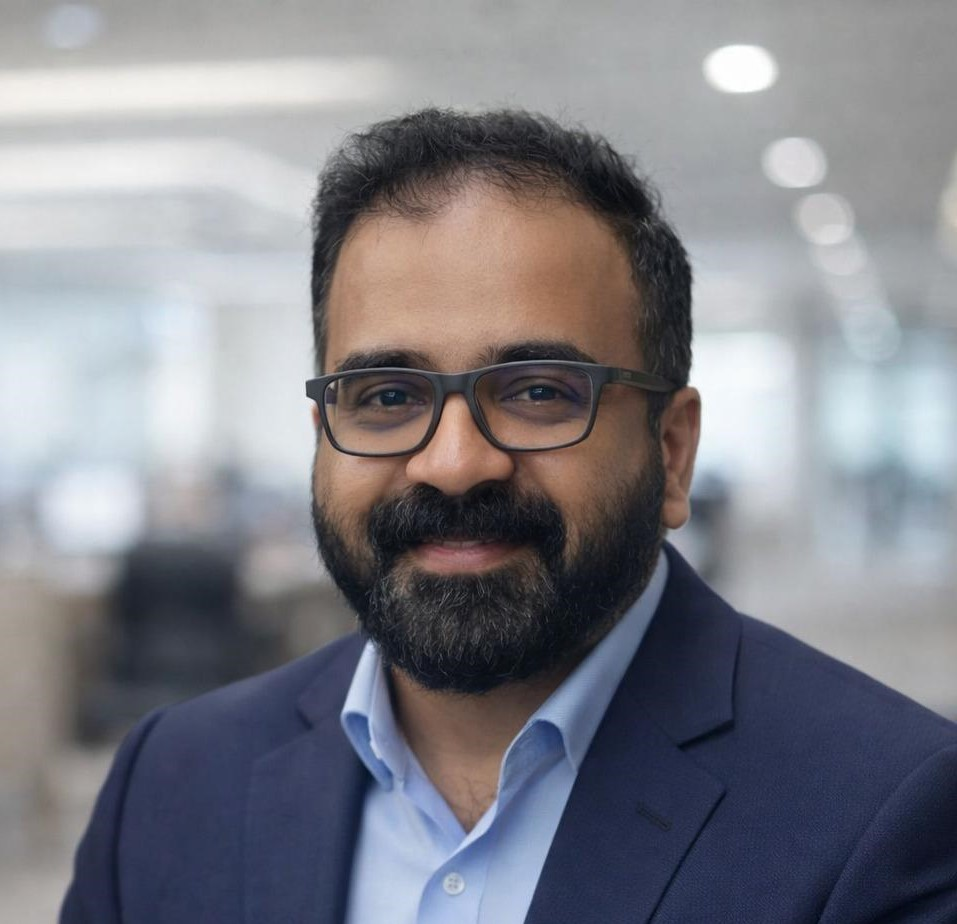
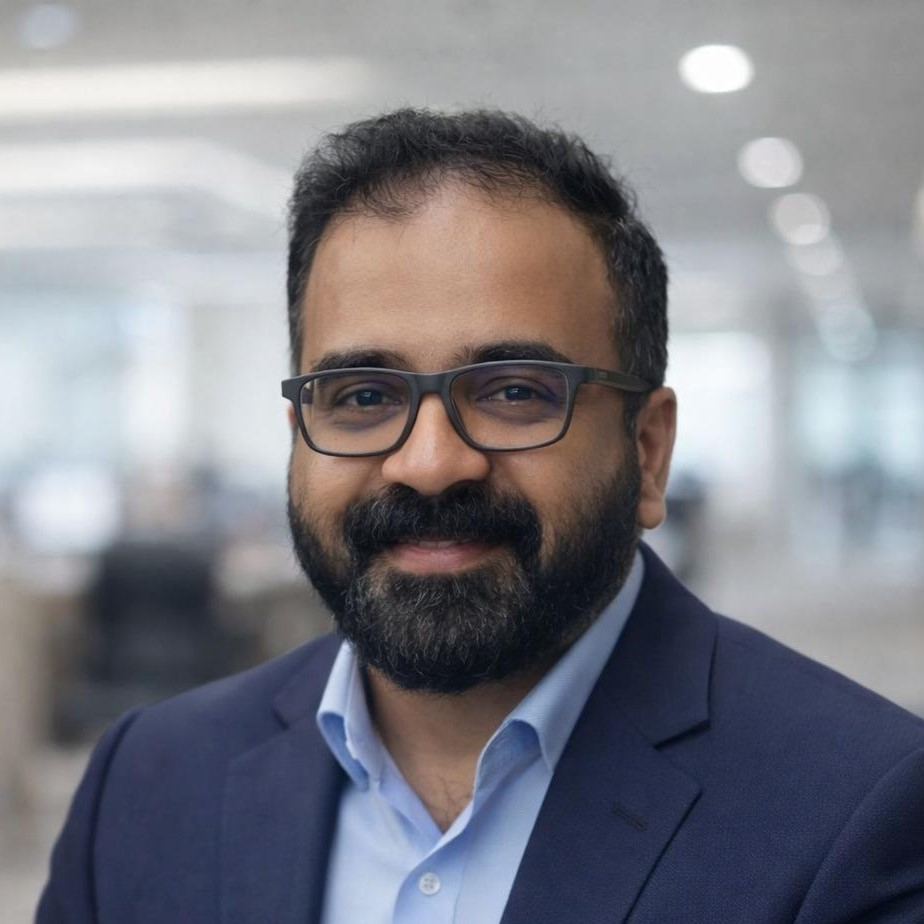
BOT picture updates

diff --git a/board-of-trustees.html b/board-of-trustees.html
@@ -109,7 +109,7 @@
                      <div class="column member">
 
                         
-                        <img src="images/team/team-img-01.jpg" alt=""/>
+                        <img src="images/team/BOT/Riju.jpeg" alt=""/>
 
                         <div class"member-name">
                            <h5>Riju Virippil</h5>
@@ -168,7 +168,7 @@
 
 							<div class="column member">
 
-								<img src="images/team/team-img-01.jpg" alt=""/>
+								<img src="images/team/BOT/Dr.Tikku.jpeg" alt=""/>
 
 								<div class"member-name">
 									 <h5>Tikku George</h5>
